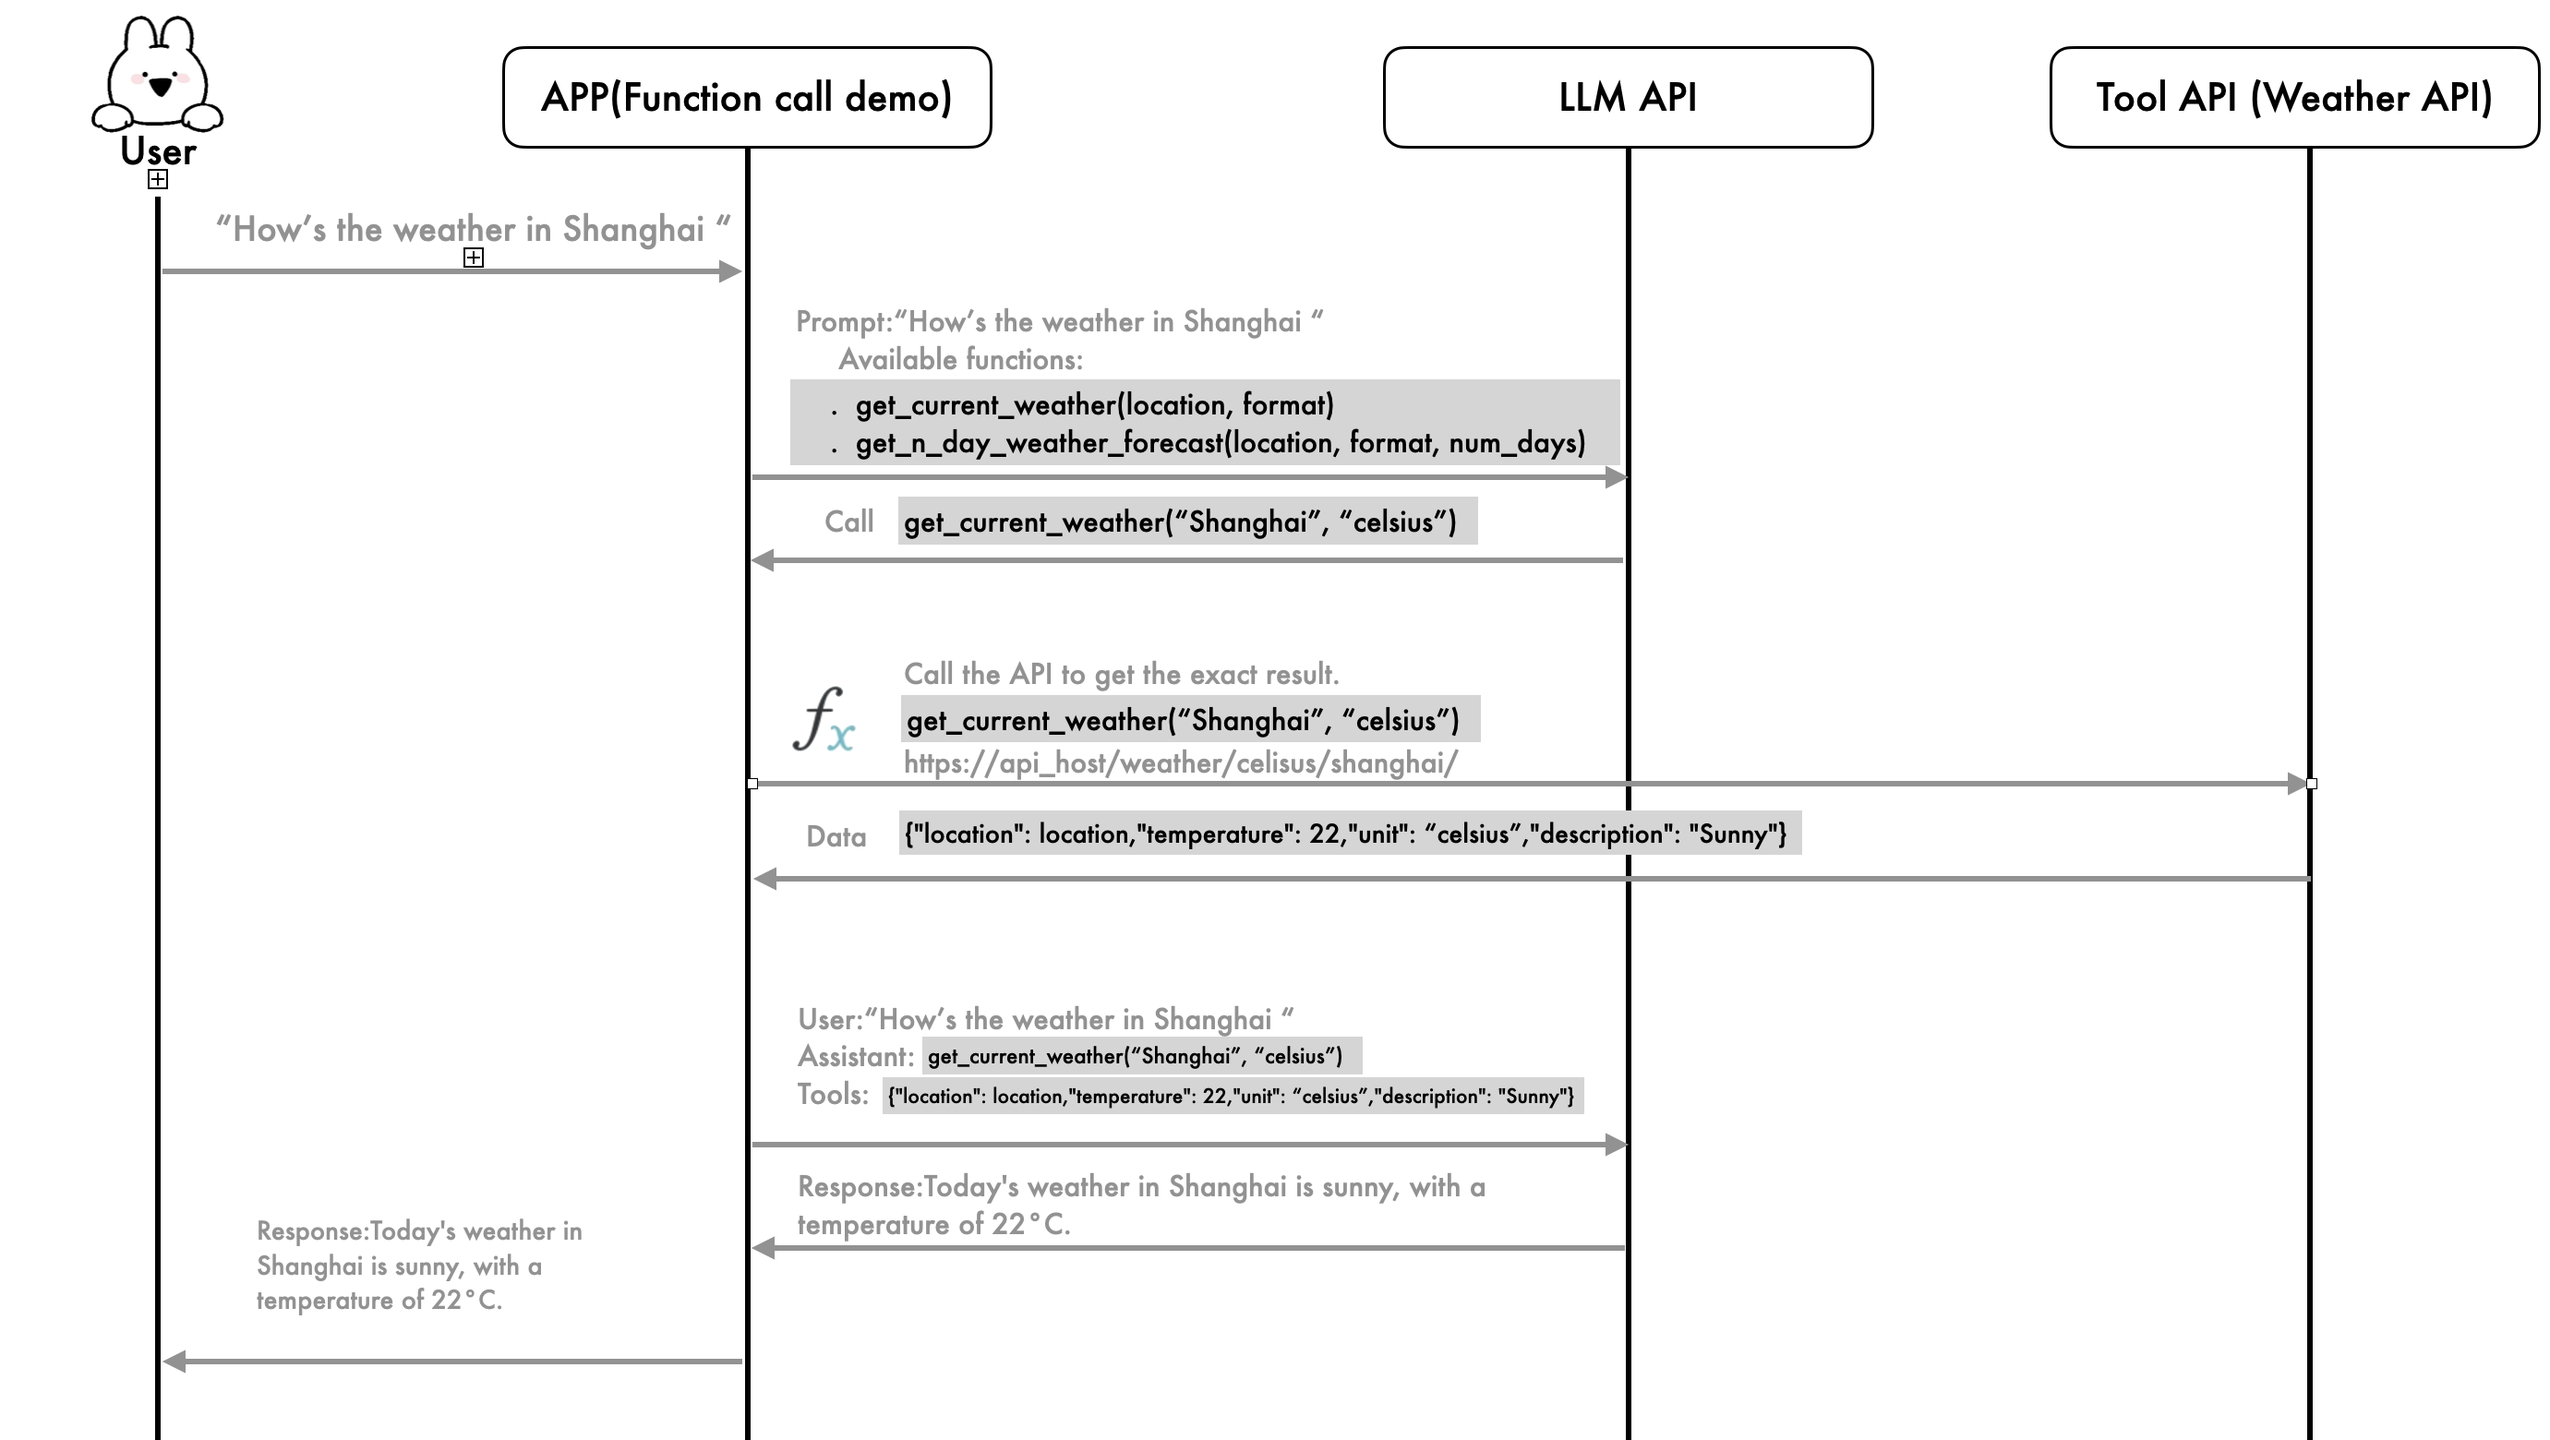
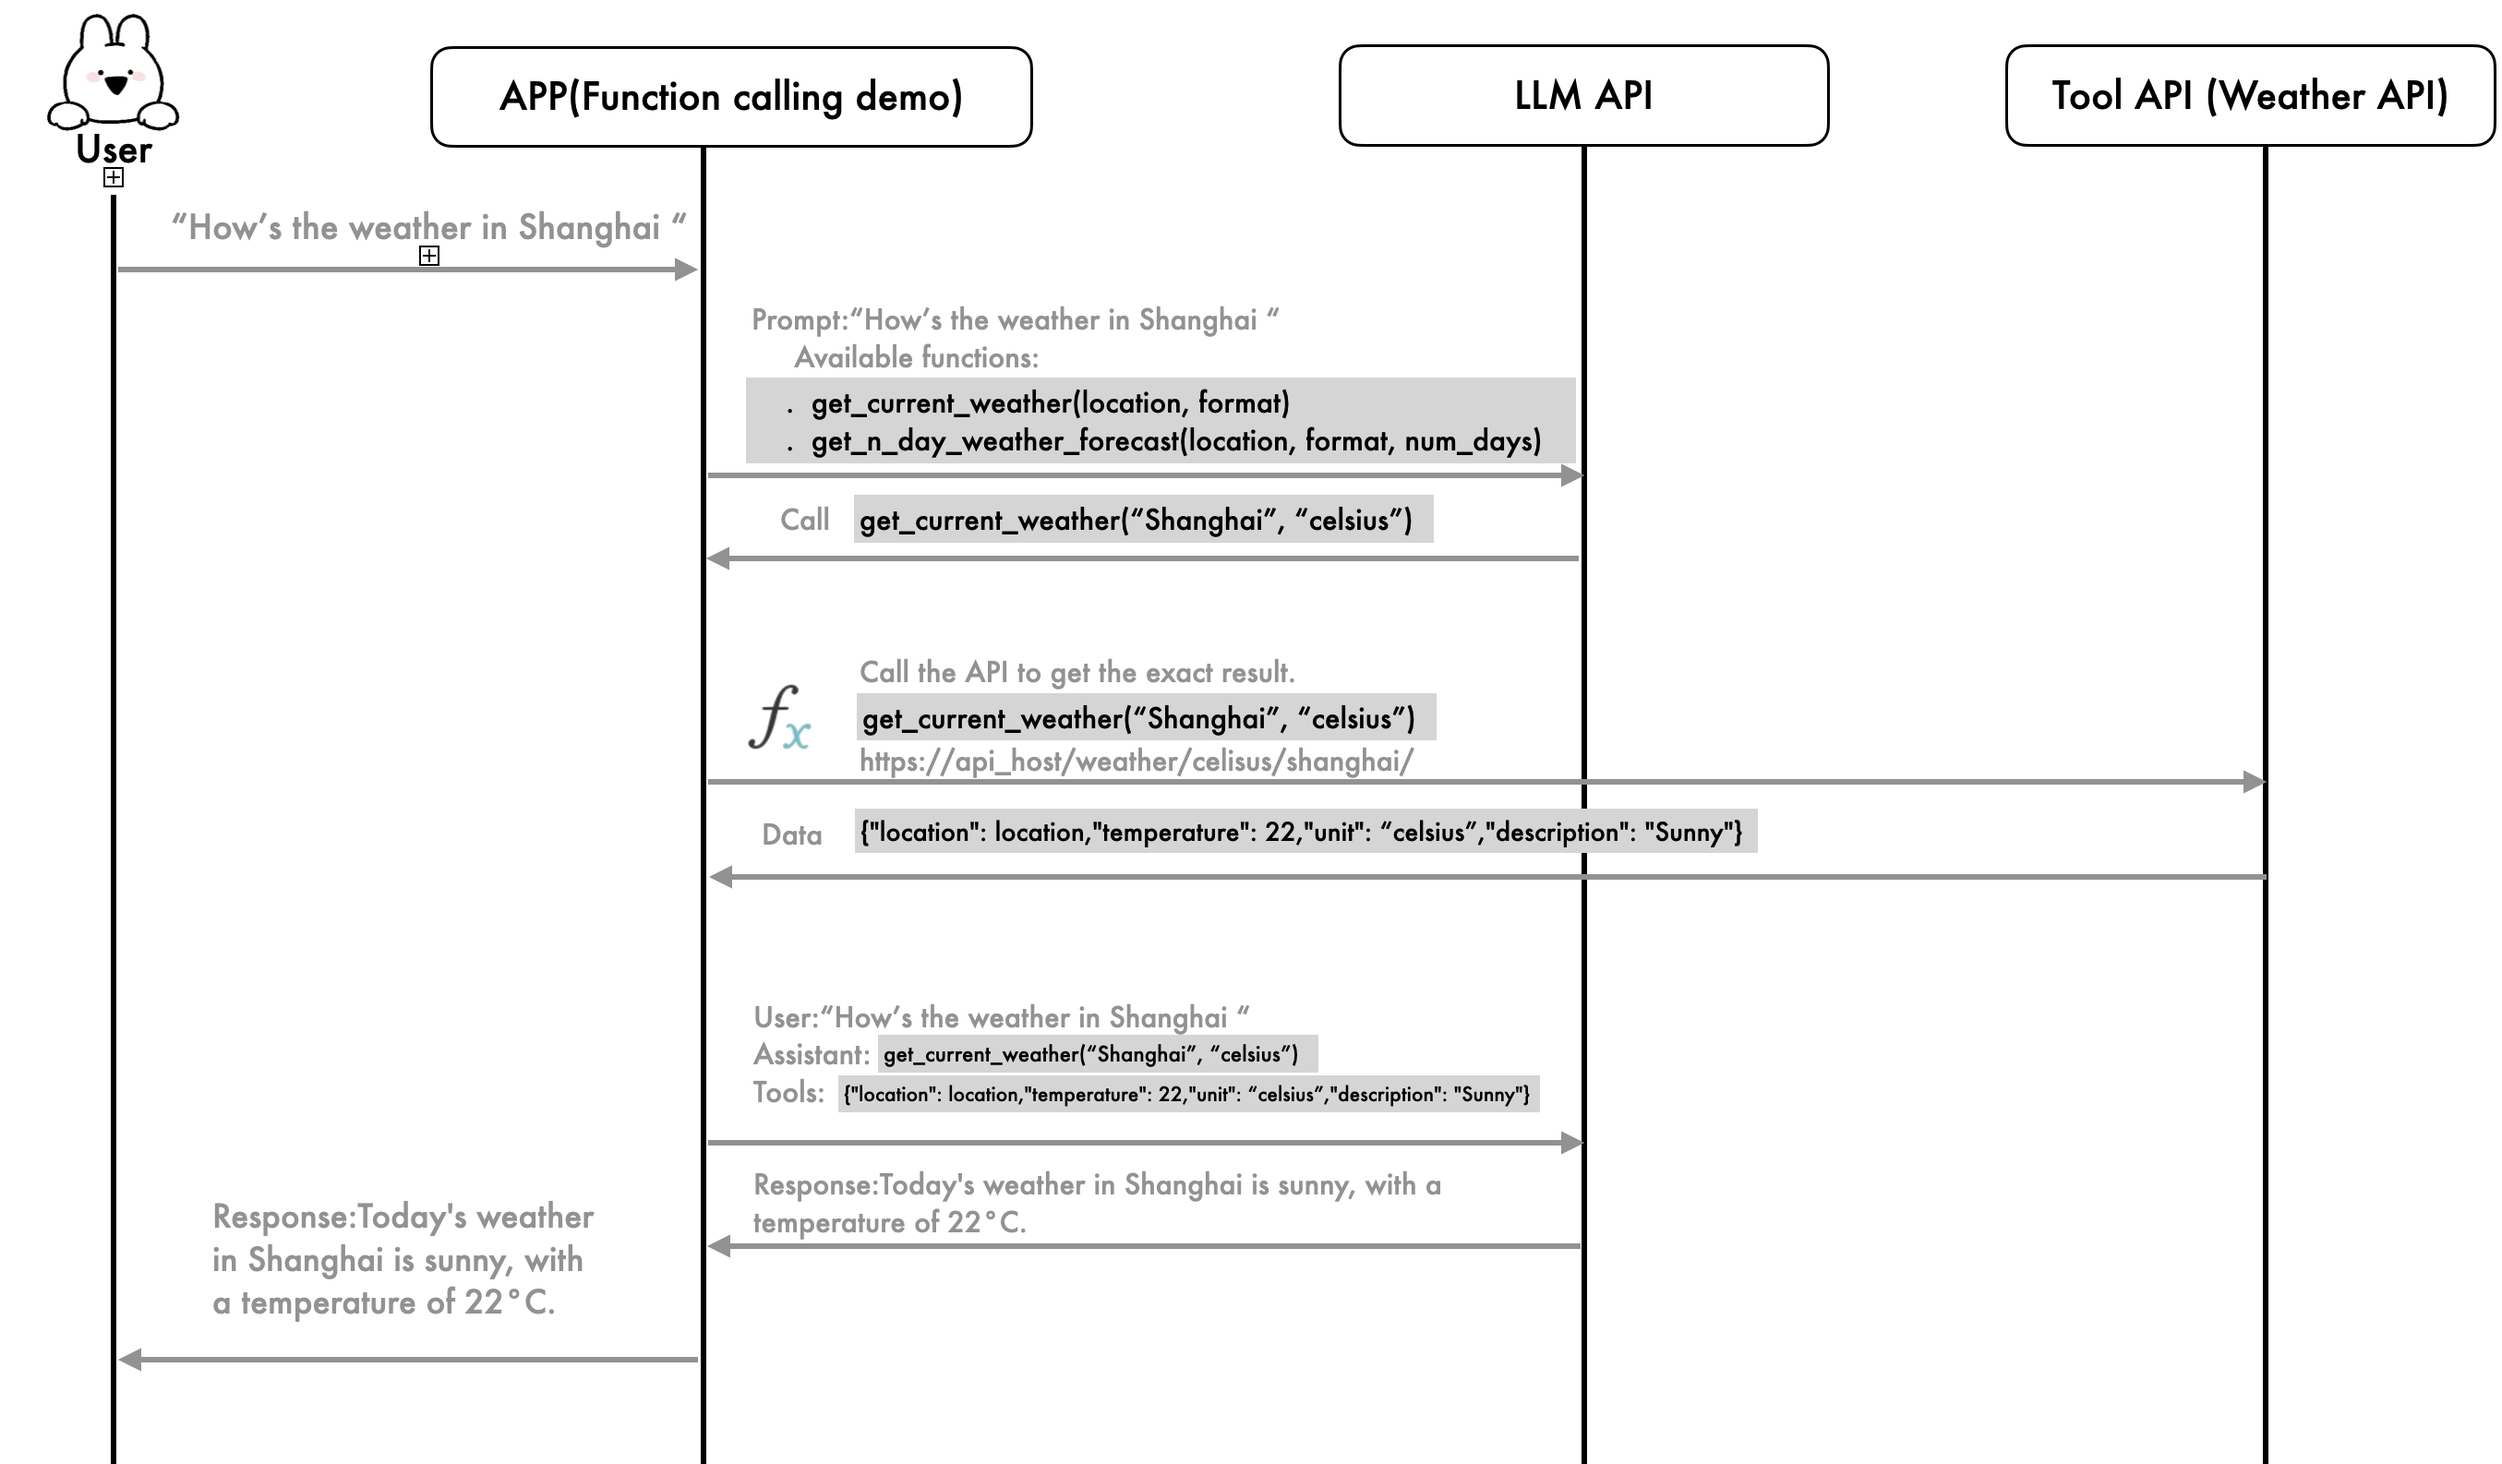
fix: fix readme

Changed region(s): [[0.031, 0.0, 0.9299, 1.0], [0.8059, 0.0308, 1.0, 0.1231]]

diff --git a/README.md b/README.md
@@ -1,4 +1,4 @@
-# function call demo
+# function calling demo
 
 ## Author: wengxiaoxiong
 
@@ -32,7 +32,7 @@ The key components include:
 1. **Clone the repository**:
 
     ```sh
-    git clone https://github.com/wengxiaoxiong/function-call-demo.git
+    git clone https://github.com/wengxiaoxiong/function-calling-demo.git
     cd function-call-demo
     ```
 
